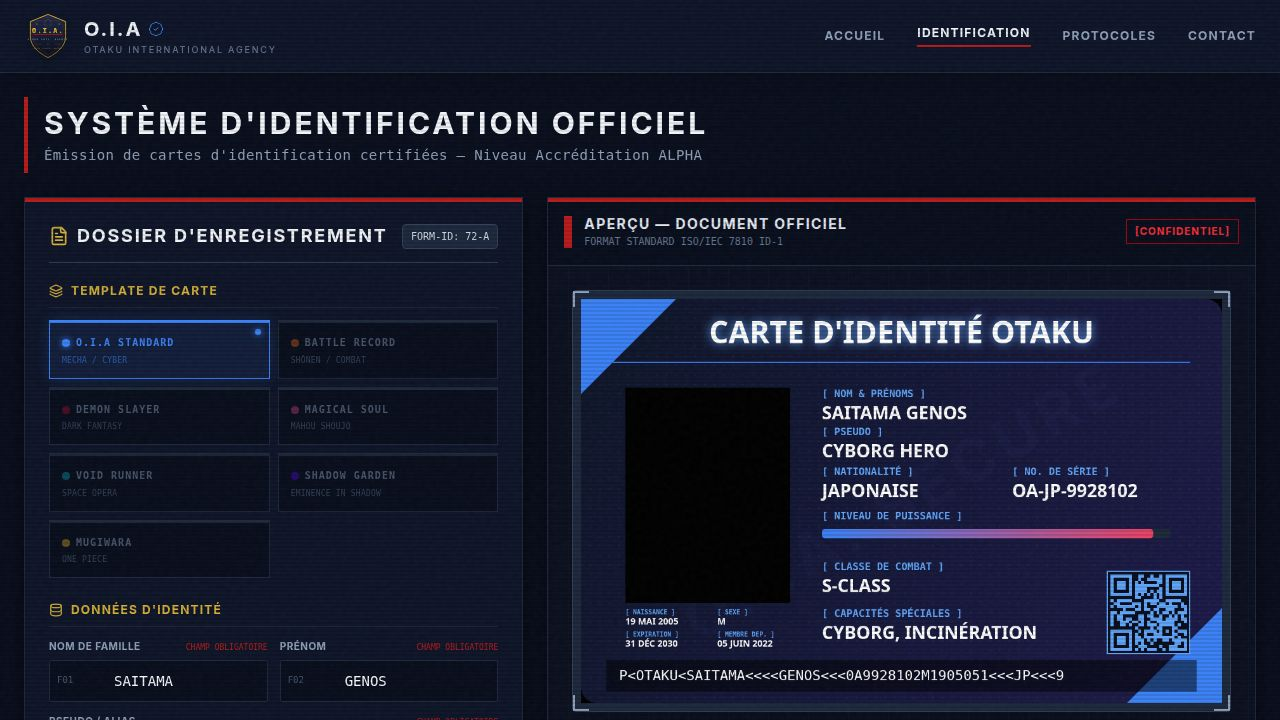
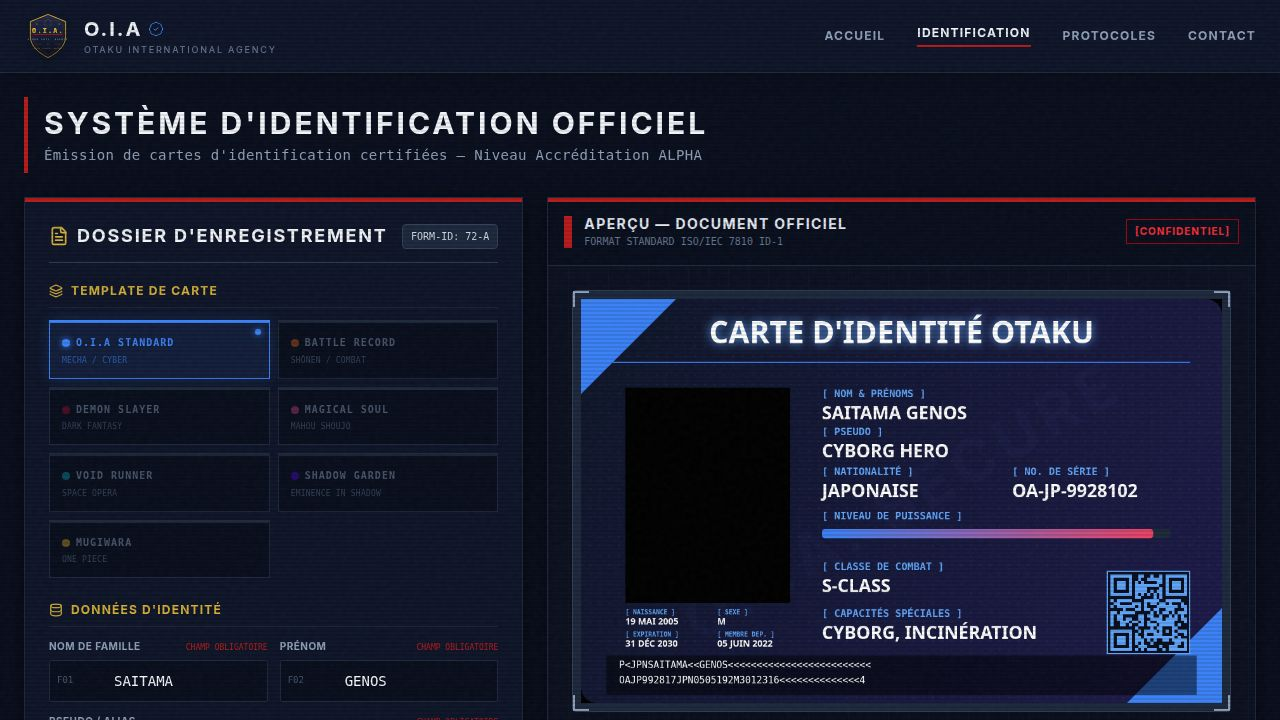
Automatically generate MRZ lines for all card templates
Removes manual MRZ input and implements an automatic MRZ generation system based on ICAO TD3 standards across all seven card templates.

Replit-Commit-Author: Agent
Replit-Commit-Session-Id: fa167f99-d6a2-4053-85a0-7c84d358ef90
Replit-Commit-Checkpoint-Type: full_checkpoint
Replit-Commit-Event-Id: f7e2ae11-b778-4c85-92f7-e40550f852f1
Replit-Commit-Screenshot-Url: https://storage.googleapis.com/screenshot-production-us-central1/33f46d3a-5010-4996-897c-00bfc35f6202/fa167f99-d6a2-4053-85a0-7c84d358ef90/NAhbe2M
Replit-Helium-Checkpoint-Created: true

Changed region(s): [[0.4688, 0.8861, 0.9375, 0.9778], [0.875, 0.9472, 0.9375, 0.9778]]

diff --git a/artifacts/otaku-card/src/lib/mrz.ts b/artifacts/otaku-card/src/lib/mrz.ts
@@ -1,0 +1,107 @@
+import { FormData } from '../types';
+
+const CHAR_VALUES: Record<string, number> = {};
+const ALPHA = '0123456789ABCDEFGHIJKLMNOPQRSTUVWXYZ';
+for (let i = 0; i < ALPHA.length; i++) CHAR_VALUES[ALPHA[i]] = i;
+CHAR_VALUES['<'] = 0;
+
+function checkDigit(str: string): string {
+  const weights = [7, 3, 1];
+  let sum = 0;
+  for (let i = 0; i < str.length; i++) {
+    const v = CHAR_VALUES[str[i].toUpperCase()] ?? 0;
+    sum += v * weights[i % 3];
+  }
+  return String(sum % 10);
+}
+
+function removeAccents(str: string): string {
+  return str
+    .normalize('NFD')
+    .replace(/[\u0300-\u036f]/g, '')
+    .replace(/[^A-Z0-9 ]/gi, '')
+    .toUpperCase();
+}
+
+function toMrzName(str: string): string {
+  return removeAccents(str).replace(/\s+/g, '<').replace(/[^A-Z<]/g, '');
+}
+
+function padRight(str: string, len: number, char = '<'): string {
+  return (str + char.repeat(len)).slice(0, len);
+}
+
+const FRENCH_MONTHS: Record<string, string> = {
+  JAN: '01', FÉV: '02', FEV: '02', MAR: '03', AVR: '04',
+  MAI: '05', JUN: '06', JUL: '07', AOÛ: '08', AOU: '08',
+  SEP: '09', OCT: '10', NOV: '11', DÉC: '12', DEC: '12',
+};
+
+function parseFrenchDate(dateStr: string): string {
+  const parts = dateStr.trim().toUpperCase().split(/\s+/);
+  if (parts.length >= 3) {
+    const day = parts[0].padStart(2, '0');
+    const monthRaw = parts[1].substring(0, 3).toUpperCase();
+    const month = FRENCH_MONTHS[monthRaw] ?? '01';
+    const year = parts[2].slice(-2);
+    return year + month + day;
+  }
+  return '000000';
+}
+
+const NATIONALITY_MAP: Record<string, string> = {
+  JAPONAISE: 'JPN', JAPONAIS: 'JPN',
+  FRANÇAISE: 'FRA', FRANCAISE: 'FRA', FRANÇAIS: 'FRA', FRANCAIS: 'FRA',
+  AMÉRICAINE: 'USA', AMERICAINE: 'USA', AMÉRICAIN: 'USA', AMERICAIN: 'USA',
+  BRITANNIQUE: 'GBR',
+  CORÉENNE: 'KOR', COREENNE: 'KOR', CORÉEN: 'KOR', COREEN: 'KOR',
+  CHINOISE: 'CHN', CHINOIS: 'CHN',
+  ITALIENNE: 'ITA', ITALIEN: 'ITA',
+  ESPAGNOLE: 'ESP', ESPAGNOL: 'ESP',
+  ALLEMANDE: 'DEU', ALLEMAND: 'DEU',
+  BRÉSILIENNE: 'BRA', BRESILIENNE: 'BRA', BRÉSILIEN: 'BRA', BRESILIEN: 'BRA',
+  RUSSE: 'RUS',
+  CANADIENNE: 'CAN', CANADIEN: 'CAN',
+  MEXICAINE: 'MEX', MEXICAIN: 'MEX',
+  AUSTRALIENNE: 'AUS', AUSTRALIEN: 'AUS',
+  INDIENNE: 'IND', INDIEN: 'IND',
+  OTAKU: 'OTK',
+};
+
+function toNatCode(nationalite: string): string {
+  const key = removeAccents(nationalite.trim().toUpperCase());
+  return NATIONALITY_MAP[key] ?? padRight(key.replace(/[^A-Z]/g, ''), 3, '<').slice(0, 3);
+}
+
+function sanitizeDocNumber(noCarte: string): string {
+  const cleaned = removeAccents(noCarte).replace(/[^A-Z0-9]/g, '');
+  return padRight(cleaned, 9);
+}
+
+export function generateMRZ(formData: FormData): { line1: string; line2: string } {
+  const nat3 = toNatCode(formData.nationalite);
+
+  const surname = toMrzName(formData.nom);
+  const firstname = toMrzName(formData.prenom);
+  const nameField = padRight(`${surname}<<${firstname}`, 39);
+  const line1 = `P<${nat3}${nameField}`.slice(0, 44);
+
+  const docNum9 = sanitizeDocNumber(formData.noCarte);
+  const docCd = checkDigit(docNum9);
+
+  const birthDate = parseFrenchDate(formData.dateNaissance);
+  const birthCd = checkDigit(birthDate);
+
+  const sex = formData.sexe === 'F' ? 'F' : 'M';
+
+  const expiryDate = parseFrenchDate(formData.dateExpiration);
+  const expiryCd = checkDigit(expiryDate);
+
+  const optional = '<<<<<<<<<<<<<<';
+  const core = `${docNum9}${docCd}${nat3}${birthDate}${birthCd}${sex}${expiryDate}${expiryCd}${optional}`;
+  const compositeSrc = `${docNum9}${docCd}${birthDate}${birthCd}${expiryDate}${expiryCd}${optional}`;
+  const compositeCd = checkDigit(compositeSrc);
+  const line2 = `${core}${compositeCd}`.slice(0, 44);
+
+  return { line1, line2 };
+}

diff --git a/artifacts/otaku-card/src/templates/templateMugiwara.ts b/artifacts/otaku-card/src/templates/templateMugiwara.ts
@@ -1,5 +1,6 @@
 import QRCode from 'qrcode';
 import { FormData } from '../types';
+import { generateMRZ } from '../lib/mrz';
 
 export function renderMugiwara(
   ctx: CanvasRenderingContext2D,
@@ -402,15 +403,17 @@ export function renderMugiwara(
   drawMiniField('《 MEMBRE DEP. 》', formData.membreDepuis, 215, 513);
 
   // ── Bande MRZ ────────────────────────────────────────────
+  const { line1: mrzLine1, line2: mrzLine2 } = generateMRZ(formData);
   ctx.fillStyle = 'rgba(0, 0, 0, 0.75)';
-  ctx.fillRect(40, 575, w - 80, 45);
+  ctx.fillRect(40, 568, w - 80, 58);
   ctx.strokeStyle = '#6b1a1a';
   ctx.lineWidth = 1;
   ctx.globalAlpha = 0.55;
-  ctx.strokeRect(40, 575, w - 80, 45);
+  ctx.strokeRect(40, 568, w - 80, 58);
   ctx.globalAlpha = 1;
   ctx.fillStyle = '#fbbf24';
-  ctx.font = '19px "Courier New", monospace';
+  ctx.font = '15px "Courier New", monospace';
   ctx.textAlign = 'left';
-  ctx.fillText(formData.mrzLine, 60, 604);
+  ctx.fillText(mrzLine1, 60, 588);
+  ctx.fillText(mrzLine2, 60, 609);
 }

diff --git a/artifacts/otaku-card/src/templates/templateSpace.ts b/artifacts/otaku-card/src/templates/templateSpace.ts
@@ -1,5 +1,6 @@
 import QRCode from 'qrcode';
 import { FormData } from '../types';
+import { generateMRZ } from '../lib/mrz';
 
 export function renderSpace(
   ctx: CanvasRenderingContext2D,
@@ -232,15 +233,17 @@ export function renderSpace(
   drawMiniField('EXPIRATION', formData.dateExpiration, 70, 503);
   drawMiniField('MEMBRE DEP.', formData.membreDepuis, 215, 503);
 
+  const { line1: mrzLine1, line2: mrzLine2 } = generateMRZ(formData);
   ctx.fillStyle = 'rgba(0,0,0,0.80)';
-  ctx.fillRect(40, 577, w - 80, 43);
+  ctx.fillRect(40, 568, w - 80, 58);
   ctx.strokeStyle = '#06b6d4';
   ctx.lineWidth = 0.5;
   ctx.globalAlpha = 0.5;
-  ctx.strokeRect(40, 577, w - 80, 43);
+  ctx.strokeRect(40, 568, w - 80, 58);
   ctx.globalAlpha = 1;
   ctx.fillStyle = '#06b6d4';
-  ctx.font = '18px "Courier New", monospace';
+  ctx.font = '15px "Courier New", monospace';
   ctx.textAlign = 'left';
-  ctx.fillText(formData.mrzLine, 60, 604);
+  ctx.fillText(mrzLine1, 60, 588);
+  ctx.fillText(mrzLine2, 60, 609);
 }

diff --git a/artifacts/otaku-card/src/templates/templateShadowGarden.ts b/artifacts/otaku-card/src/templates/templateShadowGarden.ts
@@ -1,5 +1,6 @@
 import QRCode from 'qrcode';
 import { FormData } from '../types';
+import { generateMRZ } from '../lib/mrz';
 
 export function renderShadowGarden(
   ctx: CanvasRenderingContext2D,
@@ -327,15 +328,17 @@ export function renderShadowGarden(
   drawMiniField('MEMBRE DEP.', formData.membreDepuis, 215, 505);
 
   // MRZ
+  const { line1: mrzLine1, line2: mrzLine2 } = generateMRZ(formData);
   ctx.fillStyle = 'rgba(0,0,0,0.88)';
-  ctx.fillRect(40, 577, w - 80, 43);
+  ctx.fillRect(40, 568, w - 80, 58);
   ctx.strokeStyle = '#2D1B69';
   ctx.lineWidth = 1;
   ctx.globalAlpha = 0.6;
-  ctx.strokeRect(40, 577, w - 80, 43);
+  ctx.strokeRect(40, 568, w - 80, 58);
   ctx.globalAlpha = 1;
   ctx.fillStyle = '#B0B0C8';
-  ctx.font = '18px "Courier New", monospace';
+  ctx.font = '15px "Courier New", monospace';
   ctx.textAlign = 'left';
-  ctx.fillText(formData.mrzLine, 60, 604);
+  ctx.fillText(mrzLine1, 60, 588);
+  ctx.fillText(mrzLine2, 60, 609);
 }

diff --git a/artifacts/otaku-card/src/templates/templateDemon.ts b/artifacts/otaku-card/src/templates/templateDemon.ts
@@ -1,5 +1,6 @@
 import QRCode from 'qrcode';
 import { FormData } from '../types';
+import { generateMRZ } from '../lib/mrz';
 
 export function renderDemon(
   ctx: CanvasRenderingContext2D,
@@ -196,10 +197,12 @@ export function renderDemon(
   drawMiniField('⟦ EXPIRATION ⟧', formData.dateExpiration, 70, 513);
   drawMiniField('⟦ MEMBRE DEP. ⟧', formData.membreDepuis, 215, 513);
 
+  const { line1: mrzLine1, line2: mrzLine2 } = generateMRZ(formData);
   ctx.fillStyle = 'rgba(0,0,0,0.70)';
-  ctx.fillRect(40, 575, w - 80, 45);
+  ctx.fillRect(40, 568, w - 80, 58);
   ctx.fillStyle = '#be123c';
-  ctx.font = '19px "Courier New", monospace';
+  ctx.font = '15px "Courier New", monospace';
   ctx.textAlign = 'left';
-  ctx.fillText(formData.mrzLine, 60, 604);
+  ctx.fillText(mrzLine1, 60, 588);
+  ctx.fillText(mrzLine2, 60, 609);
 }

diff --git a/artifacts/otaku-card/src/templates/templateMagical.ts b/artifacts/otaku-card/src/templates/templateMagical.ts
@@ -1,5 +1,6 @@
 import QRCode from 'qrcode';
 import { FormData } from '../types';
+import { generateMRZ } from '../lib/mrz';
 
 export function renderMagical(
   ctx: CanvasRenderingContext2D,
@@ -221,10 +222,12 @@ export function renderMagical(
   drawMiniField('✦ EXPIRATION', formData.dateExpiration, 70, 507);
   drawMiniField('✦ MEMBRE DEP.', formData.membreDepuis, 215, 507);
 
+  const { line1: mrzLine1, line2: mrzLine2 } = generateMRZ(formData);
   ctx.fillStyle = 'rgba(0,0,0,0.55)';
-  ctx.fillRect(40, 575, w - 80, 45);
+  ctx.fillRect(40, 568, w - 80, 58);
   ctx.fillStyle = '#a855f7';
-  ctx.font = '19px "Courier New", monospace';
+  ctx.font = '15px "Courier New", monospace';
   ctx.textAlign = 'left';
-  ctx.fillText(formData.mrzLine, 60, 604);
+  ctx.fillText(mrzLine1, 60, 588);
+  ctx.fillText(mrzLine2, 60, 609);
 }

diff --git a/artifacts/otaku-card/src/templates/templateShonen.ts b/artifacts/otaku-card/src/templates/templateShonen.ts
@@ -1,5 +1,6 @@
 import QRCode from 'qrcode';
 import { FormData } from '../types';
+import { generateMRZ } from '../lib/mrz';
 
 export function renderShonen(
   ctx: CanvasRenderingContext2D,
@@ -203,10 +204,12 @@ export function renderShonen(
   drawMiniField('▸ EXPIRATION', formData.dateExpiration, 70, 513);
   drawMiniField('▸ MEMBRE DEP.', formData.membreDepuis, 215, 513);
 
+  const { line1: mrzLine1, line2: mrzLine2 } = generateMRZ(formData);
   ctx.fillStyle = 'rgba(0,0,0,0.65)';
-  ctx.fillRect(40, 575, w - 80, 45);
+  ctx.fillRect(40, 568, w - 80, 58);
   ctx.fillStyle = '#f97316';
-  ctx.font = '19px "Courier New", monospace';
+  ctx.font = '15px "Courier New", monospace';
   ctx.textAlign = 'left';
-  ctx.fillText(formData.mrzLine, 60, 604);
+  ctx.fillText(mrzLine1, 60, 588);
+  ctx.fillText(mrzLine2, 60, 609);
 }

diff --git a/artifacts/otaku-card/src/templates/templateOIA.ts b/artifacts/otaku-card/src/templates/templateOIA.ts
@@ -1,5 +1,6 @@
 import QRCode from 'qrcode';
 import { FormData } from '../types';
+import { generateMRZ } from '../lib/mrz';
 
 export function renderOIA(
   ctx: CanvasRenderingContext2D,
@@ -167,10 +168,12 @@ export function renderOIA(
   drawMiniField('[ EXPIRATION ]', formData.dateExpiration, 70, 533);
   drawMiniField('[ MEMBRE DEP. ]', formData.membreDepuis, 215, 533);
 
+  const { line1: mrzLine1, line2: mrzLine2 } = generateMRZ(formData);
   ctx.fillStyle = 'rgba(0,0,0,0.5)';
-  ctx.fillRect(40, 570, w - 80, 50);
+  ctx.fillRect(40, 563, w - 80, 62);
   ctx.fillStyle = '#fff';
-  ctx.font = '22px "Courier New", monospace';
+  ctx.font = '15px "Courier New", monospace';
   ctx.textAlign = 'left';
-  ctx.fillText(formData.mrzLine, 60, 602);
+  ctx.fillText(mrzLine1, 60, 583);
+  ctx.fillText(mrzLine2, 60, 607);
 }

diff --git a/artifacts/otaku-card/src/components/CardEditor.tsx b/artifacts/otaku-card/src/components/CardEditor.tsx
@@ -202,7 +202,6 @@ export function CardEditor({ formData, onChange, onPhotoChange, onDownload, onTe
               <InputField label="Membre depuis" code="C03" name="membreDepuis" value={formData.membreDepuis} onChange={onChange} />
             </div>
 
-            <InputField label="Ligne MRZ" code="C04" name="mrzLine" value={formData.mrzLine} onChange={onChange} />
           </div>
 
           {/* Combat Stats Section */}

diff --git a/artifacts/otaku-card/src/App.tsx b/artifacts/otaku-card/src/App.tsx
@@ -19,7 +19,6 @@ const DEFAULT_FORM_DATA: FormData = {
   expertise: 'CYBORG, INCINÉRATION',
   membreDepuis: '05 JUIN 2022',
   powerLevel: 95,
-  mrzLine: 'P<OTAKU<SAITAMA<<<<GENOS<<<0A9928102M1905051<<<JP<<<9',
   qrUrl: 'https://otaku-agency.org',
   template: 'OIA',
 };

diff --git a/artifacts/otaku-card/src/types/index.ts b/artifacts/otaku-card/src/types/index.ts
@@ -13,7 +13,6 @@ export interface FormData {
   expertise: string;
   membreDepuis: string;
   powerLevel: number;
-  mrzLine: string;
   qrUrl: string;
   template: TemplateId;
 }
